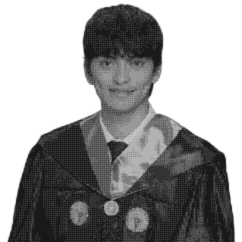
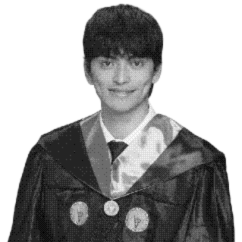
chore: update image

diff --git a/src/content/website.ts b/src/content/website.ts
@@ -1,7 +1,7 @@
 import { getContactUrl, getMailtoUrl } from "../utils/links";
 
 export const brandLogo = "/assets/WebsiteMode/andreihuyoa dot.svg";
-export const portrait = "/assets/WebsiteMode/grad-pic-dither.png";
+export const portrait = "/assets/WebsiteMode/grad-pic.png";
 
 export type WebsiteSectionId =
   | "experience"
